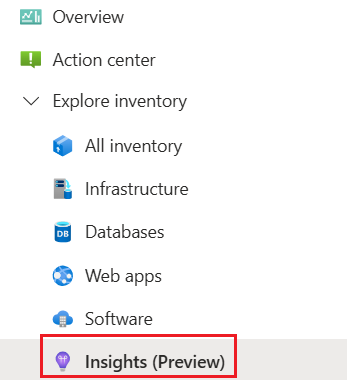
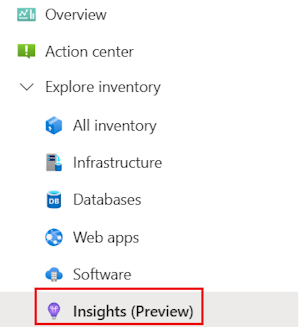
adding screenshots

diff --git a/articles/migrate/security-insights-overview.md b/articles/migrate/security-insights-overview.md
@@ -76,16 +76,14 @@ To view security insights in Azure Migrate:
     
     This page provides a summary of security risks across discovered servers and software. Select any insight to view detailed information.
 
-    :::image type="content" source="./media/security-insights-overview/summary-card.png" alt-text="Screenshot shows the summary of critical security risks in the datacenter that needs attention." lightbox="./media/security-insights-overview/summary-card.png":::
-
-1. The summary highlights critical security risks in your datacenter that need immediate attention. It identifies:
+    1. The summary highlights critical security risks in your datacenter that need immediate attention. It identifies:
     1. Servers with critical vulnerabilities that benefit from enabling Microsoft Defender for Cloud after migration. 
     1. Servers running end-of-support operating systems, recommending upgrades during migration.
     1. The number of servers with pending critical and security updates, suggesting remediation using Azure Update Manager post-migration.
 
 You can tag servers with critical risks to support effective planning and mitigation during modernization to Azure.
+    :::image type="content" source="./media/security-insights-overview/summary-card.png" alt-text="Screenshot shows the summary of critical security risks in the datacenter that needs attention." lightbox="./media/security-insights-overview/summary-card.png":::
 
-Add screen
 1. **Servers** card shows a summary of all discovered servers with security risks. A server is considered at risk if it has at least one of the following issues:
 
 - End-of-support operating system
@@ -94,11 +92,11 @@ Add screen
 - Missing security or patch management software
 - Pending critical or security updates
 
-Add screen
+    :::image type="content" source="./media/security-insights-overview/servers-card.png" alt-text="Screenshot shows the summarized view of all servers with security risks out of total discovered servers." lightbox="./media/security-insights-overview/servers-card.png":::
 
 1. **Software** card shows a summary of all discovered software with security risks. Software is flagged as at risk if it is either end-of-support or has known vulnerabilities (CVEs). The card displays the number of end-of-support software and software with vulnerabilities as fractions of the total at-risk software.
 
-Add screen
+    :::image type="content" source="./media/security-insights-overview/software-card.png" alt-text="Screenshot provides aggregated view of all software with security risks out of total discovered software." lightbox="./media/security-insights-overview/software-card.png":::
 
 ## Review detailed security risks 
 
@@ -111,11 +109,11 @@ To review detailed security risks, follow the below steps:
 1. Open the **Insights** (preview) page.
 1. In the **Servers** card, select the link that shows the number of servers with security risks.
 
-Add screen
+    :::image type="content" source="./media/security-insights-overview/servers-risk-type.png" alt-text="Screenshot shows the servers with security risks." lightbox="./media/security-insights-overview/servers-risk-type.png":::
 
 1. You can view the detailed list of discovered servers, apply tags to support migration planning, and export the server data as a .csv file.
 
-Add screen
+    :::image type="content" source="./media/security-insights-overview/servers-with-security-risks.png" alt-text="Screenshot shows the detailed list of discovered servers." lightbox="./media/security-insights-overview/servers-with-security-risks.png":::
 
 ### View impacted servers by security risk
 
@@ -127,11 +125,11 @@ To view servers impacted by specific security risks, return to the Insights (pre
 - Missing security or patch management tools
 - Pending critical and security updates
 
-Add screen
+    :::image type="content" source="./media/security-insights-overview/servers-impacted.png" alt-text="Screenshot shows the detailed list of servers impacted by each security risk." lightbox="./media/security-insights-overview/servers-impacted.png":::
 
 1. Alternatively, you can filter servers with security risks from the **Explore inventory** > **All inventory** and **Explore inventory** > **Infrastructure** page.
 
-Add screen
+    :::image type="content" source="./media/security-insights-overview/sserver-filters-with-security-risks.png" alt-text="Screenshot shows how to filter servers with security risks." lightbox="./media/security-insights-overview/server-filters-with-security-risks.png":::
 
 ### Review Software with security risks 
 
